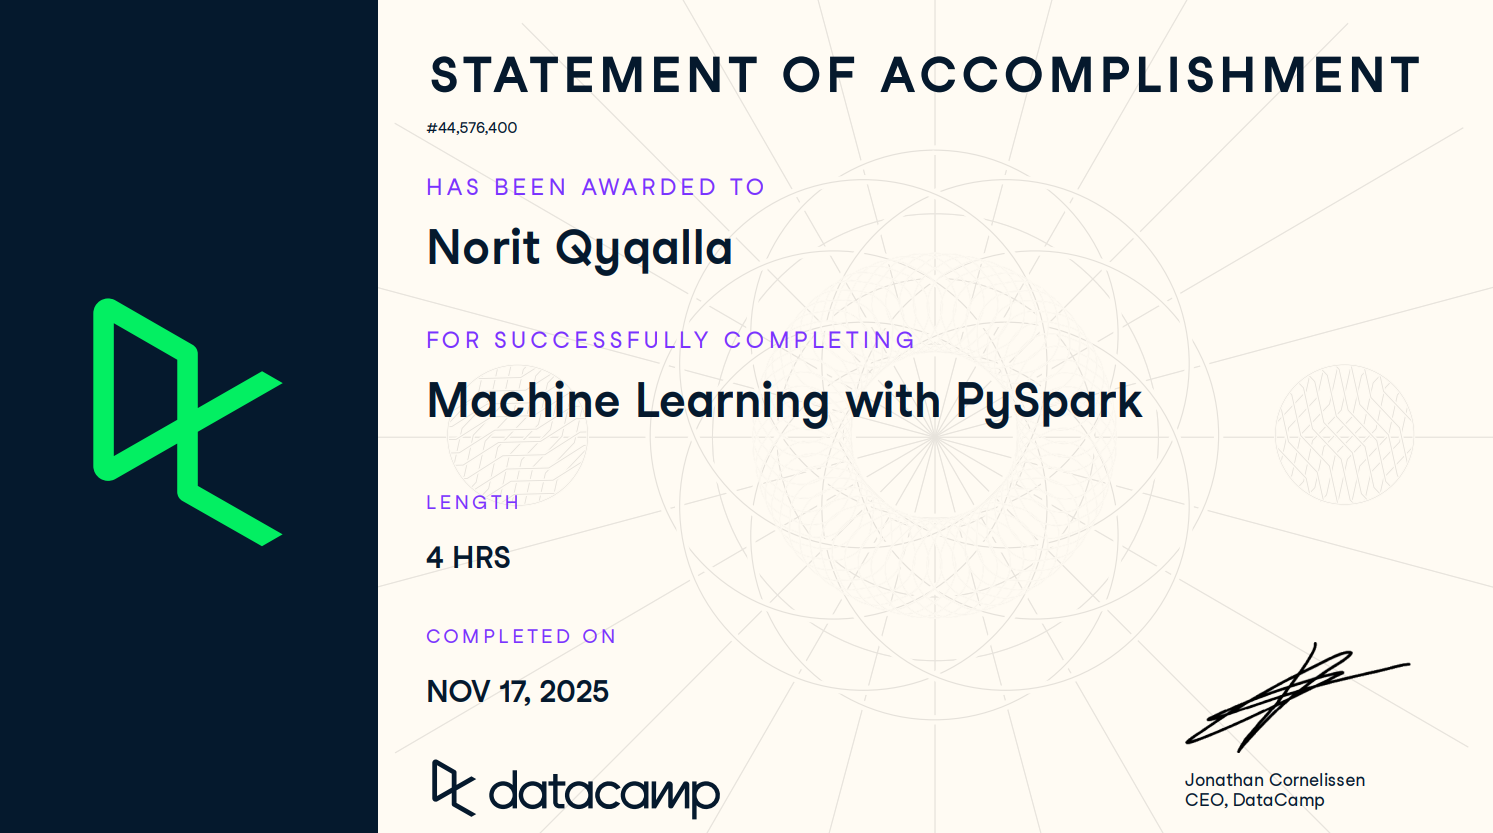
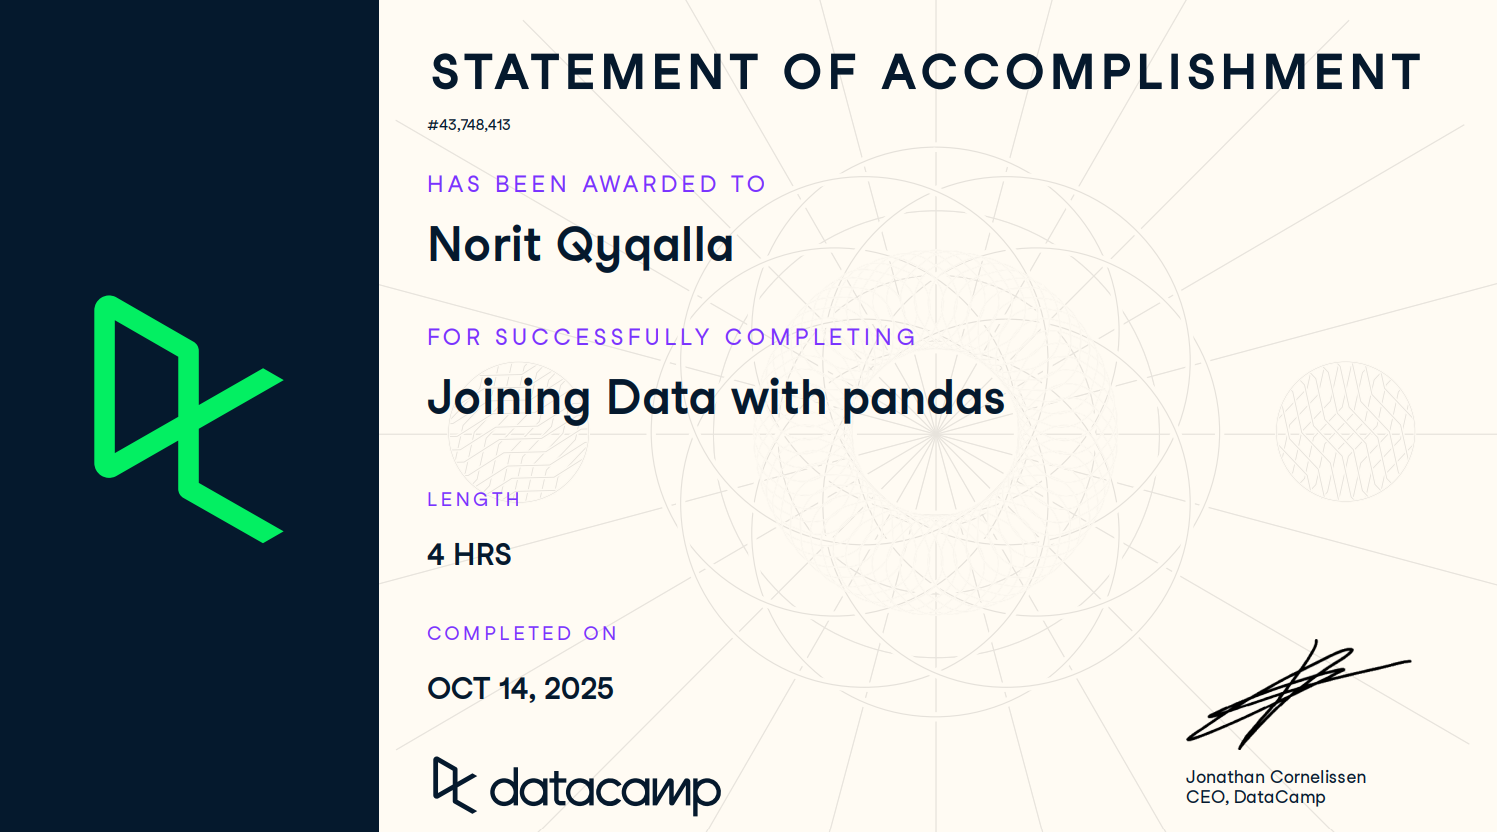
Update certificates section and assets

diff --git a/src/components/CertificatesSection.tsx b/src/components/CertificatesSection.tsx
@@ -28,204 +28,212 @@ const CERTIFICATES: Certificate[] = [
   },
   {
     id: 3,
+    title: 'Introduction to Modern AI',
+    issuer: 'CISCO',
+    description:
+      'Successfully completed the Introduction to Modern AI course by CISCO. I practiced using AI enabled features on free apps, such as photo apps, translation services, and chatbots. I had in depth practice in prompting a chatbot, and understand fundamentals of how the models work, which informs how they prompt chatbots.',
+    image: '/certificates/3.png',
+  },
+  {
+    id: 4,
     title: 'Debate Club Certificate "Lets Debate Change" Project',
     issuer: 'SOLIDAR.Suisse/Teach For Kosova',
     description:
       'Successfully completed the Debate Club sessions and activities as part of the "Lets Debate Change" project, funded by Solidar Suisse. This program provided structured training in public speaking, critical thinking, and constructive debate within a professional learning environment. Through interactive debates, teamwork, and evidence-based argumentation, I significantly strengthened my communication, presentation, and active listening skills. The experience also enhanced my confidence in expressing ideas clearly, engaging in respectful discussions, and collaborating effectively with diverse groups.',
-    image: '/certificates/3.jpeg',
+    image: '/certificates/4.jpeg',
   },
     {
-    id: 4,
+    id: 5,
     title: 'Green Summer School 2025: EcoFix',
     issuer: 'giz/German Cooperation',
     description:
       'Participated in the five-day Green Summer School 2025 EcoFix, where I collaborated with participants from across the Balkan region on topics related to environmental sustainability and electronic waste (e-waste) management. The program provided valuable hands-on and collaborative learning experiences, including presenting project ideas, assembling and troubleshooting computer hardware, and exploring practical approaches to reducing and recycling e-waste. Working in multicultural teams strengthened my communication, teamwork, and presentation skills while exposing me to diverse perspectives and innovative solutions for environmental challenges.',
-    image: '/certificates/4.jpeg',
-  },
-  {
-    id: 5,
-    title: 'Soft Skills and Employability Training Certificate',
-    issuer: 'European Union/UNDP',
-    description:
-      'Successfully completed training focused on developing essential soft skills and enhancing employability. The program strengthened my professional communication, teamwork, problem-solving, leadership, and time management abilities while providing practical insights into workplace expectations and career development. Through interactive activities and real-world scenarios, I improved my confidence in interviews, professional networking, and presenting ideas effectively. This training equipped me with the interpersonal and professional competencies needed to collaborate efficiently, adapt to dynamic work environments, and contribute effectively to multidisciplinary teams.',
     image: '/certificates/5.jpeg',
   },
   {
     id: 6,
+    title: 'Soft Skills and Employability Training Certificate',
+    issuer: 'European Union/UNDP',
+    description:
+      'Successfully completed training focused on developing essential soft skills and enhancing employability. The program strengthened my professional communication, teamwork, problem-solving, leadership, and time management abilities while providing practical insights into workplace expectations and career development. Through interactive activities and real-world scenarios, I improved my confidence in interviews, professional networking, and presenting ideas effectively. This training equipped me with the interpersonal and professional competencies needed to collaborate efficiently, adapt to dynamic work environments, and contribute effectively to multidisciplinary teams.',
+    image: '/certificates/6.jpeg',
+  },
+  {
+    id: 7,
     title: 'Volunteer Trainer "Play Unified" Program, 20 Hours',
     issuer: 'Olimpiada Speciale Kosovë',
     description:
       'Recognized for contributing as a volunteer trainer during the successful implementation of the "Play Unified"  program, which promotes inclusive sports by bringing together individuals with and without intellectual disabilities. Through this experience, I developed strong leadership, communication, and teamwork skills while supporting participants in a positive and inclusive environment. Beyond mentoring, the program also gave me opportunities to strengthen my technical abilities by assisting with digital tools and coding-related tasks used to support program activities and event organization. This experience reinforced the importance of combining technical skills with social impact, demonstrating how technology and collaboration can contribute to more inclusive communities.',
-    image: '/certificates/6.jpeg',
+    image: '/certificates/7.jpeg',
   },
 
   {
-    id: 7,
+    id: 8,
     title: 'Python Data Fundamentals',
     issuer: 'DataCamp',
     description:
       'Covers the foundational concepts of working with data in Python, including data types, structures, basic operations with NumPy and pandas, and introductory data manipulation techniques essential for any data-driven role.',
-    image: '/certificates/7.png',
-  },
-  {
-    id: 8,
-    title: 'Cleaning Data with PySpark',
-    issuer: 'DataCamp',
-    description:
-      'Focuses on cleaning and preparing large-scale datasets using PySpark. Covers handling missing values, casting data types, filtering, deduplication, and applying transformations across distributed DataFrames efficiently.',
     image: '/certificates/8.png',
   },
   {
     id: 9,
-    title: 'End-to-End Machine Learning',
+    title: 'Cleaning Data with PySpark',
     issuer: 'DataCamp',
     description:
-      'Walks through the complete machine learning pipeline — from data collection, cleaning, and exploratory analysis to feature engineering, model training, evaluation, hyperparameter tuning, and deploying a working ML solution.',
+      'Focuses on cleaning and preparing large-scale datasets using PySpark. Covers handling missing values, casting data types, filtering, deduplication, and applying transformations across distributed DataFrames efficiently.',
     image: '/certificates/9.png',
   },
   {
     id: 10,
-    title: 'Exploratory Data Analysis in Python',
+    title: 'End-to-End Machine Learning',
     issuer: 'DataCamp',
     description:
-      'Teaches systematic approaches to exploring and visualizing datasets using pandas, matplotlib, and seaborn. Emphasizes identifying patterns, detecting outliers, and forming hypotheses before modeling.',
+      'Walks through the complete machine learning pipeline — from data collection, cleaning, and exploratory analysis to feature engineering, model training, evaluation, hyperparameter tuning, and deploying a working ML solution.',
     image: '/certificates/10.png',
   },
   {
     id: 11,
-    title: 'Feature Engineering for Machine Learning in Python',
+    title: 'Exploratory Data Analysis in Python',
     issuer: 'DataCamp',
     description:
-      'Deep dive into creating and selecting predictive features from raw data. Covers encoding categorical variables, scaling numerical features, generating polynomial and interaction features, and handling time-based data.',
+      'Teaches systematic approaches to exploring and visualizing datasets using pandas, matplotlib, and seaborn. Emphasizes identifying patterns, detecting outliers, and forming hypotheses before modeling.',
     image: '/certificates/11.png',
   },
   {
     id: 12,
-    title: 'Feature Engineering with PySpark',
+    title: 'Feature Engineering for Machine Learning in Python',
     issuer: 'DataCamp',
     description:
-      'Applies feature engineering techniques at scale using PySpark. Covers StringIndexer, OneHotEncoder, VectorAssembler, StandardScaler, and pipeline construction for distributed machine learning workflows.',
+      'Deep dive into creating and selecting predictive features from raw data. Covers encoding categorical variables, scaling numerical features, generating polynomial and interaction features, and handling time-based data.',
     image: '/certificates/12.png',
   },
   {
     id: 13,
-    title: 'Intermediate Python',
+    title: 'Feature Engineering with PySpark',
     issuer: 'DataCamp',
     description:
-      'Builds on basic Python knowledge with topics including list comprehensions, lambda functions, error handling, iterators, generators, and object-oriented programming patterns for writing clean, efficient code.',
+      'Applies feature engineering techniques at scale using PySpark. Covers StringIndexer, OneHotEncoder, VectorAssembler, StandardScaler, and pipeline construction for distributed machine learning workflows.',
     image: '/certificates/13.png',
   },
   {
     id: 14,
-    title: 'Introduction to Data Visualization with Seaborn',
+    title: 'Intermediate Python',
     issuer: 'DataCamp',
     description:
-      'Covers creating informative statistical graphics using Seaborn, including distribution plots, relational plots, categorical plots, and customizing aesthetics. Emphasizes communicating insights through visual storytelling.',
+      'Builds on basic Python knowledge with topics including list comprehensions, lambda functions, error handling, iterators, generators, and object-oriented programming patterns for writing clean, efficient code.',
     image: '/certificates/14.png',
   },
   {
     id: 15,
-    title: 'Introduction to Databricks SQL',
+    title: 'Introduction to Data Visualization with Seaborn',
     issuer: 'DataCamp',
     description:
-      'Introduces querying and analyzing data on the Databricks platform using SQL. Covers writing efficient queries, managing databases and tables, using built-in functions, and building dashboards within Databricks SQL.',
+      'Covers creating informative statistical graphics using Seaborn, including distribution plots, relational plots, categorical plots, and customizing aesthetics. Emphasizes communicating insights through visual storytelling.',
     image: '/certificates/15.png',
   },
   {
     id: 16,
-    title: 'Introduction to dbt',
+    title: 'Introduction to Databricks SQL',
     issuer: 'DataCamp',
     description:
-      'Covers the fundamentals of dbt (data build tool) for transforming data in modern analytics workflows. Includes writing models, managing dependencies, testing data quality, generating documentation, and deploying data pipelines.',
+      'Introduces querying and analyzing data on the Databricks platform using SQL. Covers writing efficient queries, managing databases and tables, using built-in functions, and building dashboards within Databricks SQL.',
     image: '/certificates/16.png',
   },
   {
     id: 17,
-    title: 'Introduction to PySpark',
+    title: 'Introduction to dbt',
     issuer: 'DataCamp',
     description:
-      'Introduces distributed data processing with PySpark. Covers the Spark architecture, Resilient Distributed Datasets (RDDs), DataFrames, basic transformations, actions, and SQL queries on large-scale data.',
+      'Covers the fundamentals of dbt (data build tool) for transforming data in modern analytics workflows. Includes writing models, managing dependencies, testing data quality, generating documentation, and deploying data pipelines.',
     image: '/certificates/17.png',
   },
   {
     id: 18,
-    title: 'Introduction to Python',
+    title: 'Introduction to PySpark',
     issuer: 'DataCamp',
     description:
-      'A beginner-friendly introduction to Python programming. Covers variables, data types, lists, dictionaries, loops, conditional statements, functions, and basic scripting — laying the groundwork for data science and automation.',
+      'Introduces distributed data processing with PySpark. Covers the Spark architecture, Resilient Distributed Datasets (RDDs), DataFrames, basic transformations, actions, and SQL queries on large-scale data.',
     image: '/certificates/18.png',
   },
   {
     id: 19,
-    title: 'Introduction to Statistics in Python',
+    title: 'Introduction to Python',
     issuer: 'DataCamp',
     description:
-      'Covers core statistical concepts and their implementation in Python. Topics include descriptive statistics, probability distributions, sampling methods, hypothesis testing, confidence intervals, and correlation analysis.',
+      'A beginner-friendly introduction to Python programming. Covers variables, data types, lists, dictionaries, loops, conditional statements, functions, and basic scripting — laying the groundwork for data science and automation.',
     image: '/certificates/19.png',
   },
   {
     id: 20,
-    title: 'Joining Data with pandas',
+    title: 'Introduction to Statistics in Python',
     issuer: 'DataCamp',
     description:
-      'Focuses on combining multiple datasets using pandas merge, join, and concatenation operations. Covers inner, outer, left, and right joins, handling duplicate keys, multi-index joins, and merging on indexes.',
+      'Covers core statistical concepts and their implementation in Python. Topics include descriptive statistics, probability distributions, sampling methods, hypothesis testing, confidence intervals, and correlation analysis.',
     image: '/certificates/20.png',
   },
   {
     id: 21,
-    title: 'Introduction to Machine Learning with PySpark',
+    title: 'Joining Data with pandas',
     issuer: 'DataCamp',
     description:
-      'Introduces building machine learning models at scale with PySpark MLlib. Covers classification, regression, clustering, and recommendation systems using Spark\'s distributed ML pipeline API on large datasets.',
+      'Focuses on combining multiple datasets using pandas merge, join, and concatenation operations. Covers inner, outer, left, and right joins, handling duplicate keys, multi-index joins, and merging on indexes.',
     image: '/certificates/21.png',
   },
   {
     id: 22,
-    title: 'Preprocessing for Machine Learning in Python',
+    title: 'Introduction to Machine Learning with PySpark',
     issuer: 'DataCamp',
     description:
-      'Covers essential data preprocessing steps before modeling: handling missing data, encoding categorical features, scaling and normalization, train-test splitting, and building reusable preprocessing pipelines with scikit-learn.',
+      'Introduces building machine learning models at scale with PySpark MLlib. Covers classification, regression, clustering, and recommendation systems using Spark\'s distributed ML pipeline API on large datasets.',
     image: '/certificates/22.png',
   },
   {
     id: 23,
-    title: 'Supervised Learning with scikit-learn',
+    title: 'Preprocessing for Machine Learning in Python',
     issuer: 'DataCamp',
     description:
-      'Comprehensive coverage of supervised machine learning using scikit-learn. Includes linear and logistic regression, decision trees, support vector machines, ensemble methods, model evaluation metrics, and cross-validation techniques.',
+      'Covers essential data preprocessing steps before modeling: handling missing data, encoding categorical features, scaling and normalization, train-test splitting, and building reusable preprocessing pipelines with scikit-learn.',
     image: '/certificates/23.png',
   },
   {
     id: 24,
-    title: 'Understanding Machine Learning',
+    title: 'Supervised Learning with scikit-learn',
     issuer: 'DataCamp',
     description:
-      'A conceptual introduction to machine learning covering the distinction between supervised, unsupervised, and reinforcement learning. Explains core concepts like overfitting, bias-variance tradeoff, and the ML workflow without heavy math.',
+      'Comprehensive coverage of supervised machine learning using scikit-learn. Includes linear and logistic regression, decision trees, support vector machines, ensemble methods, model evaluation metrics, and cross-validation techniques.',
     image: '/certificates/24.png',
   },
   {
     id: 25,
-    title: 'Unsupervised Learning in Python',
+    title: 'Understanding Machine Learning',
     issuer: 'DataCamp',
     description:
-      'Explores unsupervised machine learning techniques including k-means and hierarchical clustering, principal component analysis (PCA) for dimensionality reduction, and t-SNE for visualizing high-dimensional data in Python.',
+      'A conceptual introduction to machine learning covering the distinction between supervised, unsupervised, and reinforcement learning. Explains core concepts like overfitting, bias-variance tradeoff, and the ML workflow without heavy math.',
     image: '/certificates/25.png',
   },
   {
     id: 26,
+    title: 'Unsupervised Learning in Python',
+    issuer: 'DataCamp',
+    description:
+      'Explores unsupervised machine learning techniques including k-means and hierarchical clustering, principal component analysis (PCA) for dimensionality reduction, and t-SNE for visualizing high-dimensional data in Python.',
+    image: '/certificates/26.png',
+  },
+  {
+    id: 27,
     title: 'Gratitude for success achieved in FOOTBALL',
     issuer: 'Fushë-Kosova Municipality',
     description:
       'Honored by the municipality of Fushë-Kosova in recognition of my dedication, achievements, and contributions in football. Competing in a team-oriented environment taught me the value of discipline, collaboration, and responsibility. Football showed me that success is built through trust, communication, and supporting teammates toward a common goal. These lessons directly influence my approach to software development, where I enjoy collaborating with developers, sharing knowledge, and contributing to projects that require strong teamwork to achieve successful outcomes.',
-    image: '/certificates/26.jpeg',
+    image: '/certificates/27.jpeg',
   },
   {
-    id: 27,
+    id: 28,
     title: 'Gratitude for the contribution given in the club',
     issuer: 'SH.F. "Kosovari"',
     description:
       'Recognized by my football club for more than a decade of loyalty, dedication, and contribution to the team (2010-2022). This long-term commitment reflects my belief in giving my best to every team I am part of. Whether on the football field or in software development, I value commitment, consistency, and helping others succeed. I bring the same mindset to coding by actively supporting teammates, sharing solutions, and working collaboratively to overcome challenges and deliver high-quality results. I believe that collective success is always more meaningful than individual achievement.',
-    image: '/certificates/27.jpeg',
+    image: '/certificates/28.jpeg',
   },
 ]
 
